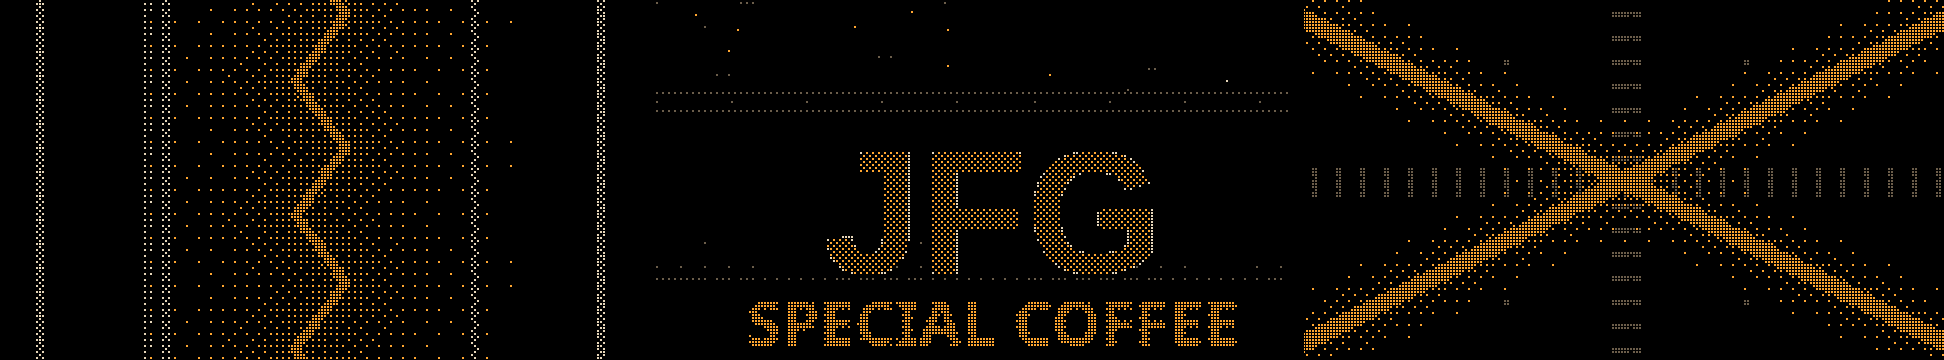
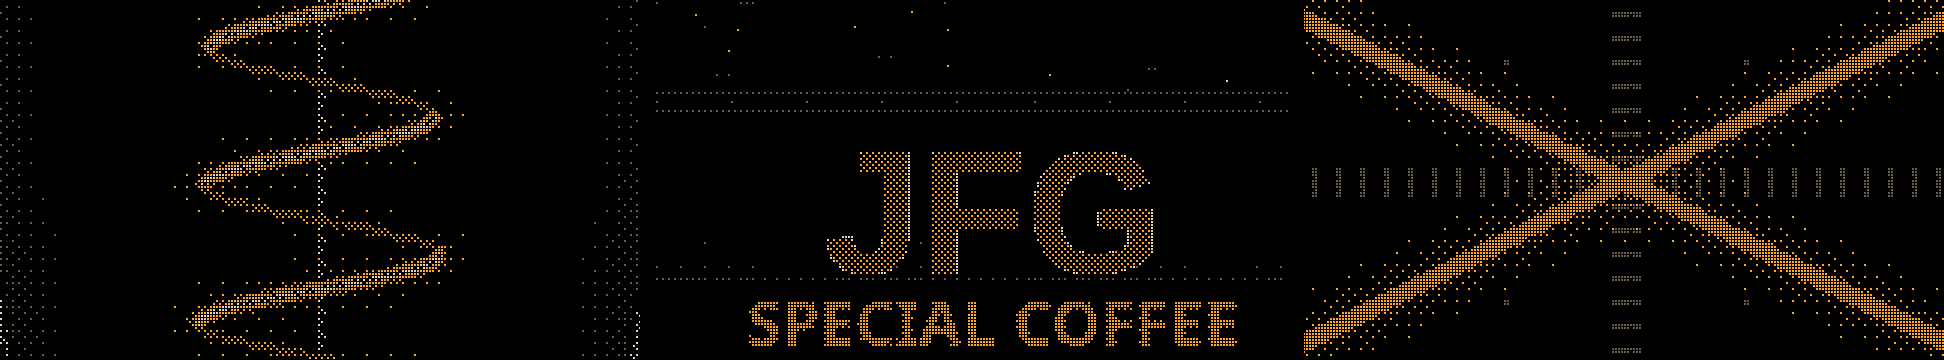
Real tubes: EL34, KT88 and 12AX7; an Edison bulb with a spiral filament

Changed region(s): [[0.0926, 0.0, 0.2469, 1.0], [0.0, 0.9167, 0.0309, 0.9472]]

diff --git a/README.md b/README.md
@@ -10,7 +10,7 @@ omarchy-theme-install https://github.com/limehawk/omarchy-amber-oled-theme
 
 ## What's in it
 
-- **108 wallpapers at 4K**, hand drawn in code as Bayer-dithered dots and ASCII glyphs, in parchment, walnut and amber on `#000000`.
+- **110 wallpapers at 4K**, hand drawn in code as Bayer-dithered dots and ASCII glyphs, in parchment, walnut and amber on `#000000`.
 - **A terminal palette to match**: parchment text, amber accent, and warm mid-century colours that keep diffs and errors readable.
 - **An unlock screen**: a VU meter at rest, its pilot lamp lit.
 - Every other app (Hyprland, the shell, btop, Neovim, VS Code, Chromium and the rest) is generated by Omarchy from one `colors.toml`.
@@ -21,7 +21,7 @@ The background picker walks through them by style, one highlight from each below
 
 Up close, at one screen pixel to one image pixel: the dither is the look. Fades break into single dots, so the grid and the gradient show at once.
 
-![Close-ups at 1:1: a tube's filament, the JFG billboard in Knoxville, a Lissajous figure](screenshots/closeup.png)
+![Close-ups at 1:1: an Edison bulb's spiral filament, the JFG billboard in Knoxville, a Lissajous figure](screenshots/closeup.png)
 
 ### Lit objects
 
@@ -30,7 +30,7 @@ Hi-fi gear and atomic-age lamps, lit like solid things.
 ![A VU meter, its dial glowing amber](screenshots/1060-vu.png)
 
 <details>
-<summary>All 26 lit objects</summary>
+<summary>All 28 lit objects</summary>
 
 ![Lit objects](screenshots/lit-objects.png)
 </details>
